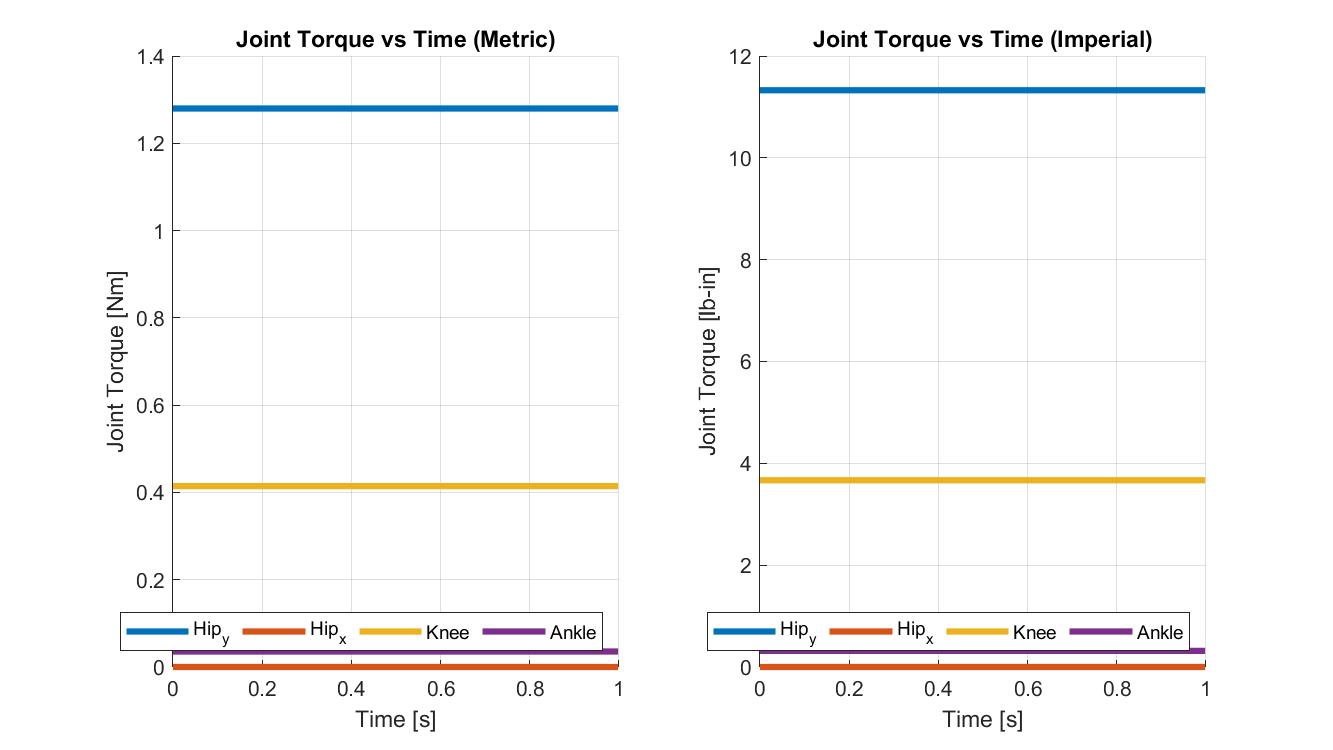
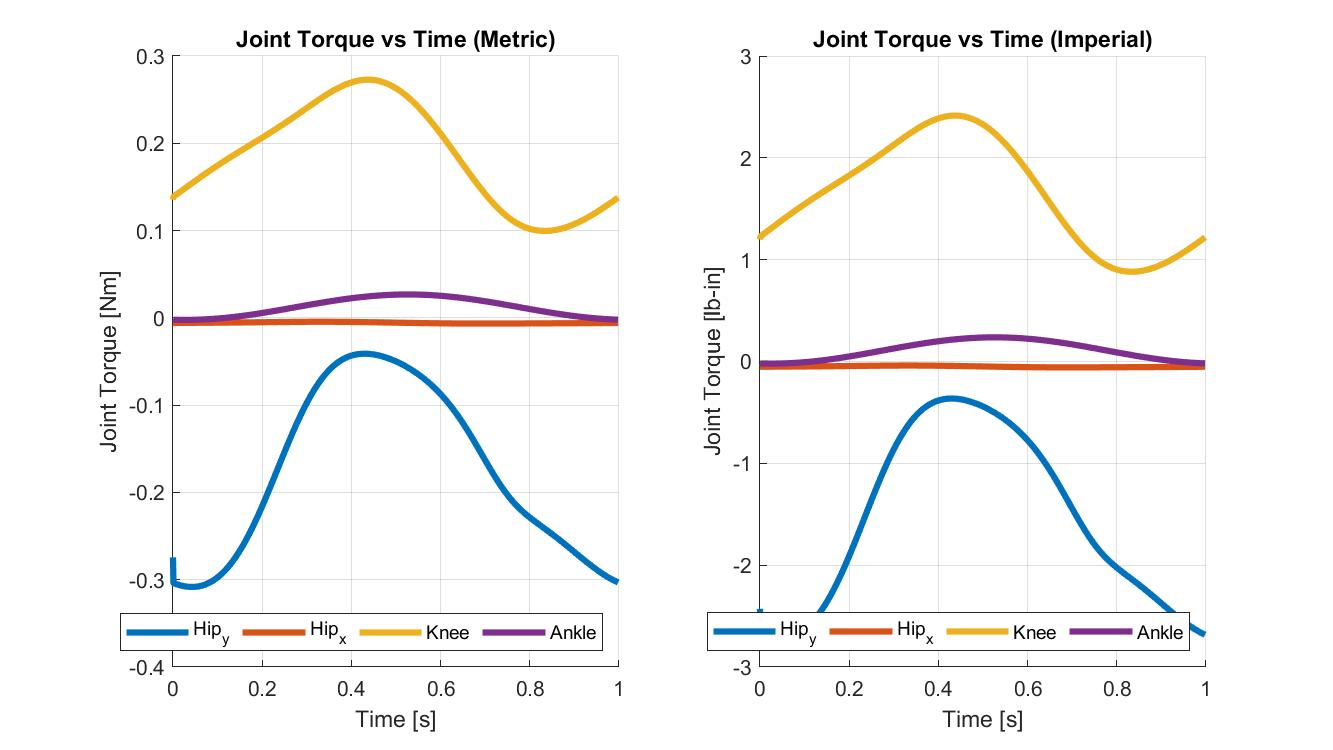
troubleshooting

diff --git a/Code/Matlab/Analysis/Dynamic_Simulation/QuadrupedSimulation.m b/Code/Matlab/Analysis/Dynamic_Simulation/QuadrupedSimulation.m
@@ -93,7 +93,7 @@ w4_local = [0; 0; 1];                                                           
 ws_local = [w1_local w2_local w3_local w4_local];                                                                        % [rad/s] Axes of Rotation of Each Link in its Local Frame.
 
 % Define the end effector location & orientation.
-Phome_end = [Ltotal; 0; 0];                                                                    % [m] End Effector Location in the Global Frame.
+Phome_end = [Ltotal; 0; 0.05008];                                                                    % [m] End Effector Location in the Global Frame.
 Rhome_end = eye(3);                                                                                     % [-] End Effector Orientation in the Global Frame.
 
 % Retrieve size information from the specified geometry.
@@ -162,16 +162,6 @@ Rhome_muscles = eye(3);
 num_pts_per_muscle = size(Phome_muscles, 2);
 num_muscles = size(Phome_muscles, 3);
 
-%figure
-%hold on
-%plot3(Phome_muscles(1, :, 1), Phome_muscles(2, :, 1), Phome_muscles(3, :, 1))
-% plot3(Phome_muscles(1, :, 2), Phome_muscles(2, :, 2), Phome_muscles(3, :, 2))
-% plot3(Phome_muscles(1, :, 3), Phome_muscles(2, :, 3), Phome_muscles(3, :, 3))
-% plot3(Phome_muscles(1, :, 4), Phome_muscles(2, :, 4), Phome_muscles(3, :, 4))
-% plot3(Phome_muscles(1, :, 5), Phome_muscles(2, :, 5), Phome_muscles(3, :, 5))
-% plot3(Phome_muscles(1, :, 6), Phome_muscles(2, :, 6), Phome_muscles(3, :, 6))
-% plot3(Phome_muscles(1, :, 7), Phome_muscles(2, :, 7), Phome_muscles(3, :, 7))
-% plot3(Phome_muscles(1, :, 8), Phome_muscles(2, :, 8), Phome_muscles(3, :, 8))
 
 %% Define the Robot Home Matrices & Screw Axes.
 
@@ -284,7 +274,7 @@ ground_height = femur_length + (sind(45) * tibia_length) + foot_length;    % [m]
 % Define the horizontal step shift.
 % horizontal_shift = 0.5 * sind(45) * tibia_length;                          % [m] Horizontal Shift to Apply to Step Trajectory.
 horizontal_shift = 0;
-
+vertical_shift = 0.02;
 % Define the step height and stride length.
 
 %{
@@ -292,8 +282,8 @@ Verify this matches the step trajectory and check where in code thse vars
 are used
 %}
 
-step_height = 0.025;         % [m] Step Heigth.
-step_length = 0.05;          % [m] Step Length.
+step_height = 0.05;         % [m] Step Heigth.
+step_length = 0.1;          % [m] Step Length.
 
 
 %% Generate Desired End Effector Trajectory.
@@ -319,7 +309,7 @@ zs_stance = 0.05008 + zeros(1, ns_stance);
 
 % Define the desired end effector path. (Use for circular swing and stance.)
 xs_desired = step_length*cos(2*pi*ts) + horizontal_shift;
-ys_desired = step_height*sin(2*pi*ts) - ground_height;
+ys_desired = step_height*sin(2*pi*ts) - ground_height + vertical_shift;
 zs_desired = 0.05008 + zeros(1, num_timesteps);
 
 % % Define the desired end effector path. (Use for circular swing and horizontal stance.)
@@ -370,7 +360,7 @@ plot3(Phome_end(1), Phome_end(2), Phome_end(3), '.', 'MarkerSize', 20)
 plot3(Ps_desired(1, :), Ps_desired(2, :), Ps_desired(3, :))
 axis equal
 
-thetas_desired = (pi/180)*[-120; 0; 90; -30];
+thetas_desired = (pi/180)*[-90; 0; 90; 30];
 %thetas_desired = (pi/180)*[-90; 0; 90; 90];
 
 % Retrieve the transformation matrices associated with the given angles.
@@ -395,6 +385,8 @@ Pjoints_desired = squeeze(Pjoints_desired);
 
 plot3(Pend_desired(1), Pend_desired(2), Pend_desired(3), '.', 'MarkerSize', 20)
 plot3(Pjoints_desired(1, :), Pjoints_desired(2, :), Pjoints_desired(3, :), '.', 'MarkerSize', 20)
+
+
 %% Compute the Joint Angles That Achieve the Desired Trajectory.
 
 % State that we are computing the inverse kinematics solution to achieve the desired trajectory.
@@ -840,7 +832,7 @@ SaveFigureAtSize(fig_jointtorques, filename, figure_size)
 %% Plot the Muscle States (Length, Velocity, Acceleration) Over Time.
 
 % Define the extensor colors.
-ext_colors = [0 0.447 0.741; 0.850 0.325 0.098; 0.929 0.694 0.125];
+ext_colors = [0 0.447 0.741; 0.850 0.325 0.098; 0.929 0.694 0.125; 0.4940 0.1840 0.5560];
 
 % Define the flexor colors.
 flx_colors = min(1.50*ext_colors, 1);
@@ -913,7 +905,7 @@ SaveFigureAtSize(fig_musclelengths, filename, figure_size)
 %% Plot the Muscle Forces Over Time.
 
 % Define an array of colors to use on the plot.
-line_colors = [0 0.447 0.741; 0.850 0.325 0.098; 0.929 0.694 0.125];
+line_colors = [0 0.447 0.741; 0.850 0.325 0.098; 0.929 0.694 0.125; 0.4940 0.1840 0.5560];
 
 % Define an array of line styles to use.
 line_styles = {'-', '--'};
